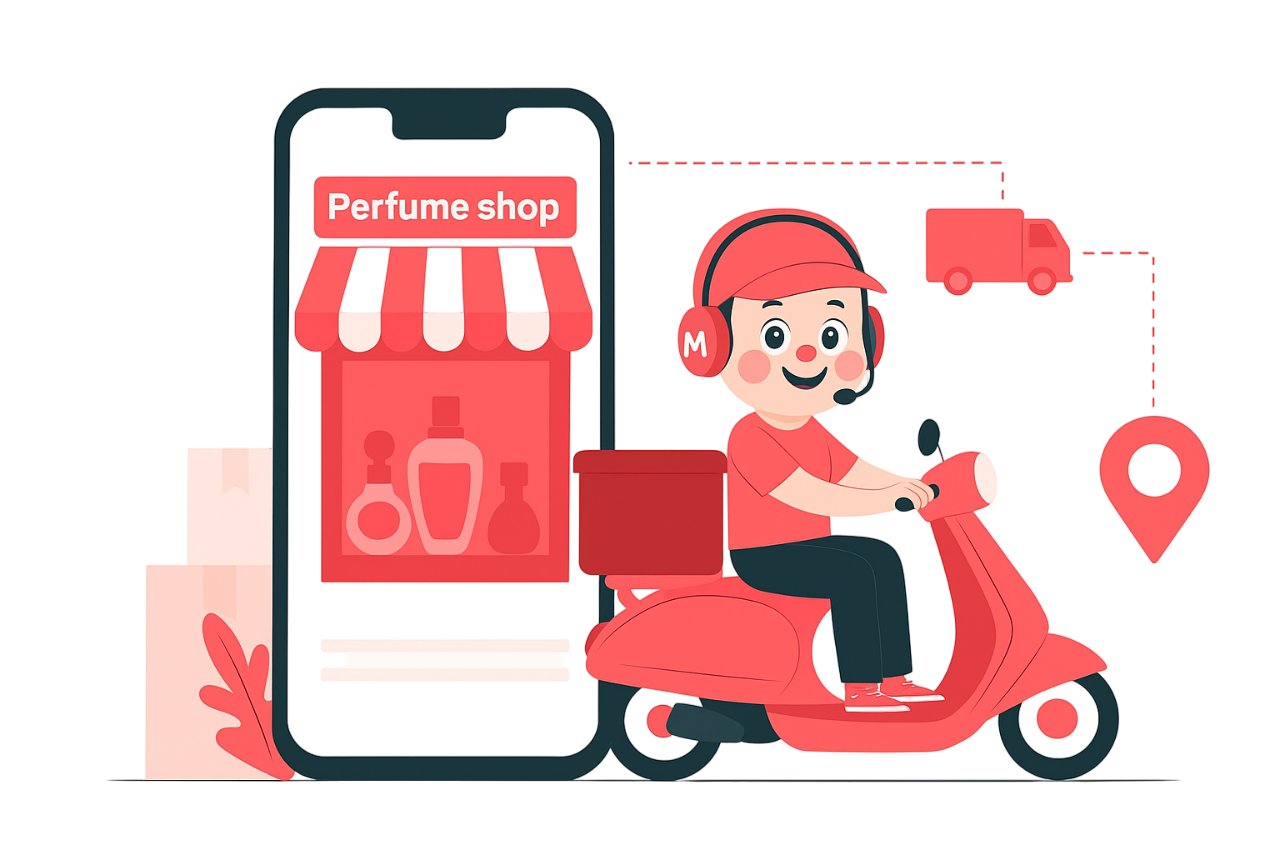
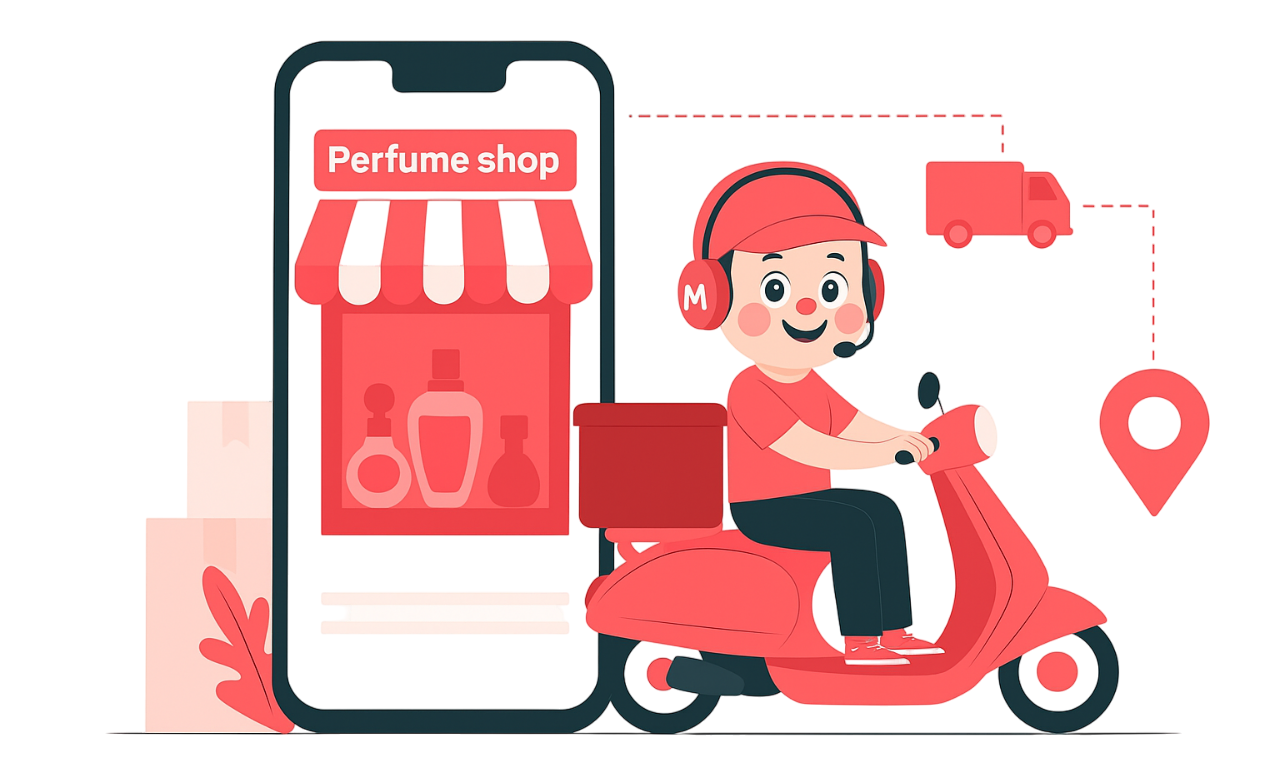
feat: add link for sex in product details

diff --git a/src/components/organisms/home/homeBrand/index.tsx b/src/components/organisms/home/homeBrand/index.tsx
@@ -8,6 +8,7 @@ import { StaticContentsDto } from '@/dtos/StaticContents.dto';
 import HomeBannerBrand from '../homeBannerBrand';
 import { useMemo } from 'react';
 import { twMerge } from 'tailwind-merge';
+
 type Props = {
   contents: BrandDto[];
   setting?: SettingOptionDto;
@@ -30,13 +31,15 @@ export default function HomeBrand({
       className={'p-3 rounded-[10px]'}
       style={{ backgroundColor: setting?.backgroundColor || '#fff' }}
     >
-      <h2
-        className={
-          'text-[24px] font-bold text-primary mb-3 text-center uppercase'
-        }
-      >
-        Thương hiệu nổi bật
-      </h2>
+      <Link href={'/thuong-hieu'}>
+        <h2
+          className={
+            'text-[24px] font-bold text-primary mb-3 text-center uppercase'
+          }
+        >
+          Thương hiệu nổi bật
+        </h2>
+      </Link>
       <div
         className={twMerge(
           'grid grid-cols-1 gap-2',

diff --git a/src/components/molecules/product/productInformation/index.tsx b/src/components/molecules/product/productInformation/index.tsx
@@ -31,13 +31,18 @@ export default function ProductInformation({ product }: Props) {
     {
       label: 'Giới tính',
       value: (
-        <span className={'font-[700] lg:font-bold'}>
+        <Link
+          href={generateSlugToHref(
+            product?.categories?.[0]?.category?.slugs?.slug,
+          )}
+          className={'text-primary font-[700] lg:font-bold'}
+        >
           {SexName(
             product?.product_property?.sex === 0
               ? 0
               : product?.product_property?.sex || 2,
           )}
-        </span>
+        </Link>
       ),
       is_visible: !!product?.product_property?.sex != null,
     },

diff --git a/src/components/molecules/product/property/index.tsx b/src/components/molecules/product/property/index.tsx
@@ -141,13 +141,18 @@ const ProductProperty = ({
         </div>
         <div>
           <span>Giới tính: </span>
-          <span className={'font-semibold text-primary'}>
+          <Link
+            href={generateSlugToHref(
+              product?.categories?.[0]?.category?.slugs?.slug,
+            )}
+            className={'font-semibold text-primary'}
+          >
             {SexName(
               product?.product_property?.sex === 0
                 ? 0
                 : product?.product_property?.sex || 2,
             )}
-          </span>
+          </Link>
         </div>
         <div>
           <span>Trạng thái: </span>

diff --git a/src/components/organisms/home/homeBanner/index.tsx b/src/components/organisms/home/homeBanner/index.tsx
@@ -27,7 +27,7 @@ export default function HomeBanner({ banners, menu, setting }: Props) {
         >
           {/* Desktop: Menu overlay + Full banner */}
           <div className={'container m-auto hidden lg:!block'}>
-            <div className={'absolute top-[50%] translate-y-[-50%] z-[3]'}>
+            <div className={'absolute top-3 z-[3] m-auto'}>
               <div className={'container m-auto relative'}>
                 {menu && <MenuWrapper menu={menu} className={'w-[220px] '} />}
               </div>

diff --git a/src/components/organisms/account/formLogin.tsx b/src/components/organisms/account/formLogin.tsx
@@ -80,7 +80,7 @@ export default function FormLogin() {
   const [errorSubmit, setErrorSubmit] = useState<string | null>(null);
 
   return (
-    <div className=" flex-1 min-h-screen px-8 py-16 justify-center">
+    <div className=" flex-1 p-4 justify-center">
       <div className="w-full flex justify-center">
         <div className="w-full h-full max-w-[440px] flex flex-col items-center pt-[30px]">
           <div className="w-full flex flex-col gap-2 lg:gap-3 justify-between items-center">
